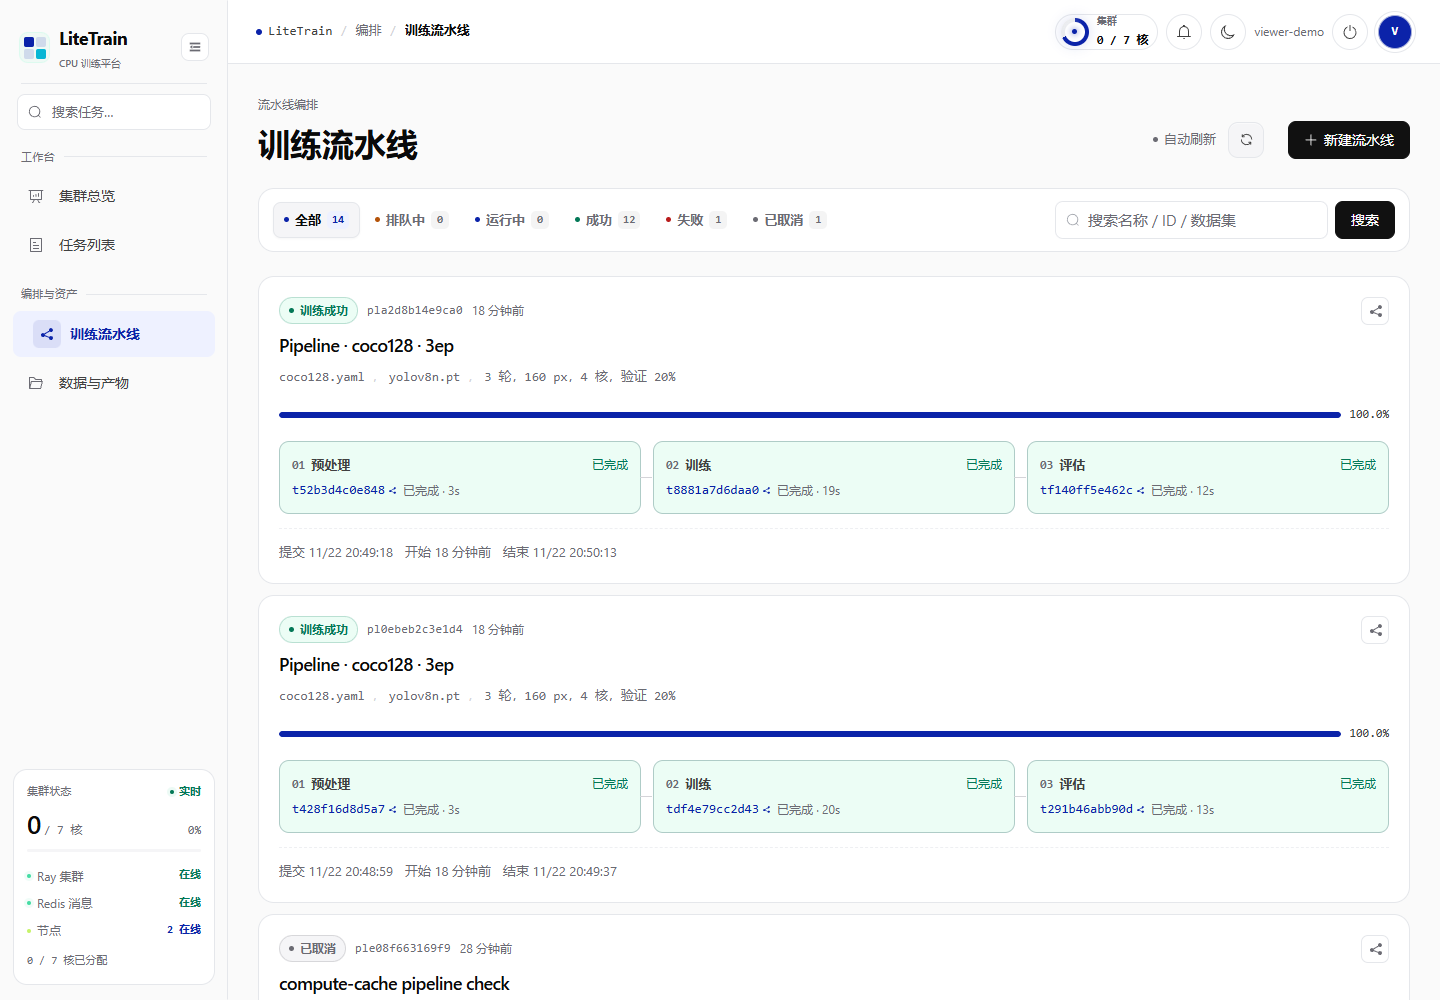
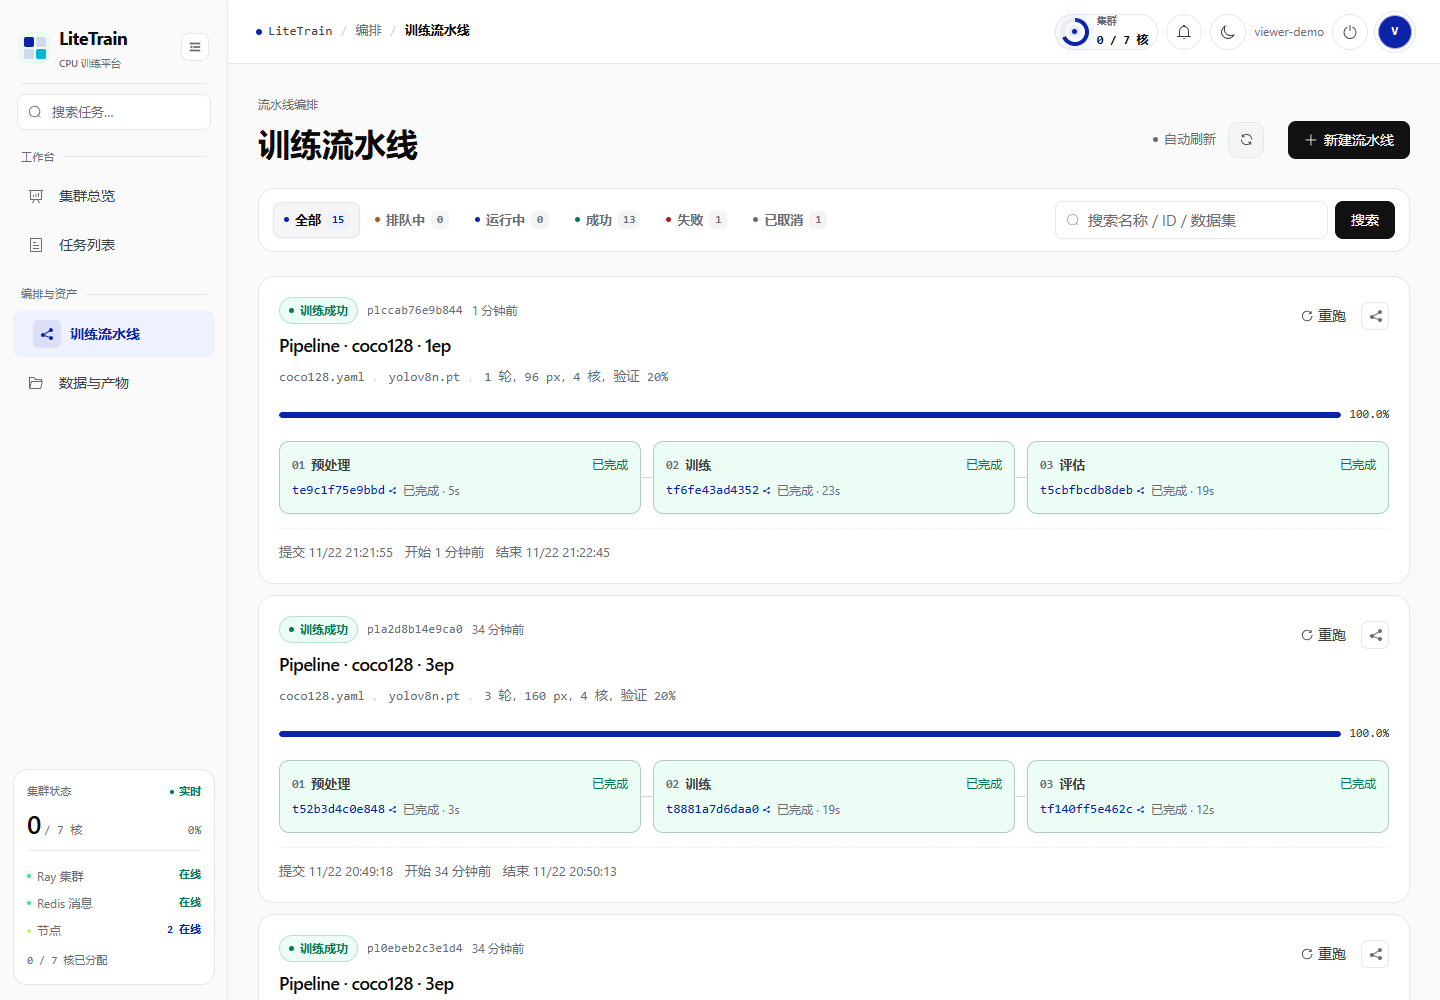
feat(pipelines): add rerun action to pipeline cards

diff --git a/frontend/src/views/PipelinesView.vue b/frontend/src/views/PipelinesView.vue
@@ -6,6 +6,7 @@ import {
   Download,
   Plus,
   Refresh,
+  RefreshRight,
   Search,
   Share,
   Timer,
@@ -47,6 +48,7 @@ const createOpen = ref(false)
 const creating = ref(false)
 const cancellingId = ref<string | null>(null)
 const resumingId = ref<string | null>(null)
+const rerunningId = ref<string | null>(null)
 const detailOpen = ref(false)
 const detailLoading = ref(false)
 const detail = ref<Pipeline | null>(null)
@@ -311,6 +313,29 @@ async function resumePipeline(pipeline: Pipeline) {
   }
 }
 
+async function rerunPipeline(pipeline: Pipeline) {
+  try {
+    await ElMessageBox.confirm(
+      `按「${pipeline.name}」的当前配置新建一条流水线？原流水线及历史记录会保留。`,
+      '重跑流水线',
+      { confirmButtonText: '创建重跑', cancelButtonText: '返回', type: 'info' },
+    )
+  } catch {
+    return
+  }
+  rerunningId.value = pipeline.id
+  try {
+    const created = await api.rerunPipeline(pipeline.id)
+    ElMessage.success(`已创建重跑流水线 ${created.id}`)
+    page.value = 1
+    await load(true)
+  } catch (err) {
+    ElMessage.error(err instanceof Error ? err.message : '重跑流水线失败')
+  } finally {
+    rerunningId.value = null
+  }
+}
+
 async function cancelPipeline(pipeline: Pipeline) {
   try {
     await ElMessageBox.confirm(
@@ -499,9 +524,17 @@ onBeforeUnmount(() => {
             </div>
           </div>
           <div class="pipeline-head-actions">
-            <button class="row-action" type="button" title="查看阶段详情" @click="openDetail(pipeline)">
-              <el-icon><Share /></el-icon>
-            </button>
+            <el-button
+              v-if="isTerminal(pipeline.status)"
+              size="small"
+              text
+              type="primary"
+              :loading="rerunningId === pipeline.id"
+              :icon="RefreshRight"
+              @click="rerunPipeline(pipeline)"
+            >
+              重跑
+            </el-button>
             <el-button
               v-if="canResumePipeline(pipeline)"
               size="small"
@@ -524,6 +557,9 @@ onBeforeUnmount(() => {
             >
               取消
             </el-button>
+            <button class="row-action" type="button" title="查看阶段详情" @click="openDetail(pipeline)">
+              <el-icon><Share /></el-icon>
+            </button>
           </div>
         </div>
 

diff --git a/frontend/src/api/client.ts b/frontend/src/api/client.ts
@@ -299,6 +299,11 @@ export const api = {
     return data
   },
 
+  async rerunPipeline(pipelineId: string): Promise<Pipeline> {
+    const { data } = await http.post<Pipeline>(`/pipelines/${pipelineId}/rerun`)
+    return data
+  },
+
   async cancelPipeline(pipelineId: string): Promise<Pipeline> {
     const { data } = await http.post<Pipeline>(`/pipelines/${pipelineId}/cancel`)
     return data

diff --git a/backend/app/services/pipelines.py b/backend/app/services/pipelines.py
@@ -853,6 +853,39 @@ class PipelineService:
             status_counts=TaskCounts(**status_counts),
         )
 
+    def rerun(self, pipeline_id: str) -> PipelineOut:
+        with self.db.session() as session:
+            pipeline = session.get(Pipeline, pipeline_id)
+            if pipeline is None:
+                raise PipelineNotFound(pipeline_id)
+            config = json.loads(pipeline.config_json or "{}")
+            name = pipeline.name
+        payload = PipelineCreate(
+            name=f"{name} · 重跑"[:100],
+            source_dataset=config.get("source_dataset", "coco128.yaml"),
+            model=config.get("model", "yolov8n.pt"),
+            epochs=int(config.get("epochs", 1)),
+            imgsz=int(config.get("imgsz", 96)),
+            batch_size=int(config.get("batch_size", 4)),
+            workers=int(config.get("workers", 0)),
+            cpu_cores=int(config.get("cpu_cores", 4)),
+            compute_threads=config.get("compute_threads"),
+            cache_mode=config.get("cache_mode", "none"),
+            priority=int(config.get("priority", 50)),
+            max_runtime_seconds=int(config.get("max_runtime_seconds", 600)),
+            max_retries=int(config.get("max_retries", 0)),
+            max_images=int(config.get("max_images", 24)),
+            val_ratio=float(config.get("val_ratio", 0.2)),
+            seed=int(config.get("seed", 42)),
+            dedupe=bool(config.get("dedupe", True)),
+            eval_split="val",
+            eval_conf=float(config.get("eval_conf", 0.001)),
+            eval_iou=float(config.get("eval_iou", 0.6)),
+            eval_max_det=int(config.get("eval_max_det", 300)),
+            notes=config.get("notes"),
+        )
+        return self.create(payload)
+
     def active_task_id(self, pipeline_id: str) -> str | None:
         with self.db.session() as session:
             pipeline = session.get(Pipeline, pipeline_id)

diff --git a/backend/tests/test_p2.py b/backend/tests/test_p2.py
@@ -180,6 +180,32 @@ def test_webhook_enqueue_sign_and_deliver(client, ctx, monkeypatch, payload):
     assert client.get("/api/v1/webhooks").json()["total"] == 0
 
 
+def test_rerun_pipeline_creates_new_run(client):
+    payload = {
+        "name": "rerun source",
+        "source_dataset": "coco128.yaml",
+        "model": "yolov8n.pt",
+        "epochs": 1,
+        "imgsz": 64,
+        "batch_size": 1,
+        "cpu_cores": 2,
+        "compute_threads": 2,
+        "cache_mode": "ram",
+        "max_runtime_seconds": 60,
+        "max_retries": 0,
+    }
+    created = client.post("/api/v1/pipelines", json=payload)
+    assert created.status_code == 201, created.text
+    original = created.json()
+    rerun = client.post(f"/api/v1/pipelines/{original['id']}/rerun")
+    assert rerun.status_code == 201, rerun.text
+    cloned = rerun.json()
+    assert cloned["id"] != original["id"]
+    assert cloned["name"].endswith("· 重跑")
+    assert cloned["config"]["compute_threads"] == 2
+    assert cloned["config"]["cache_mode"] == "ram"
+
+
 def test_topology_rejects_duplicate_node_names(client):
     response = client.post(
         "/api/v1/cluster/nodes/topology",

diff --git a/backend/app/api/pipelines.py b/backend/app/api/pipelines.py
@@ -62,6 +62,23 @@ def resume_pipeline(pipeline_id: str, ctx: AppContext = Depends(get_ctx)) -> Pip
     return pipeline
 
 
+@router.post(
+    "/{pipeline_id}/rerun",
+    response_model=PipelineOut,
+    status_code=status.HTTP_201_CREATED,
+    summary="Create a new pipeline run with the same configuration",
+)
+def rerun_pipeline(pipeline_id: str, ctx: AppContext = Depends(get_ctx)) -> PipelineOut:
+    try:
+        pipeline = ctx.pipelines.rerun(pipeline_id)
+    except PipelineNotFound as exc:
+        raise HTTPException(status_code=404, detail="pipeline not found") from exc
+    except PipelineError as exc:
+        raise HTTPException(status_code=exc.status_code, detail=exc.message) from exc
+    ctx.scheduler.wake()
+    return pipeline
+
+
 @router.post("/{pipeline_id}/cancel", response_model=PipelineOut, summary="Cancel a pipeline")
 def cancel_pipeline(pipeline_id: str, ctx: AppContext = Depends(get_ctx)) -> PipelineOut:
     try:

diff --git a/docs/README.md b/docs/README.md
@@ -2,7 +2,7 @@
 
 本项目采用 **SDD（Spec-Driven Development，规格驱动）+ TDD（Test-Driven Development，测试驱动）** 组织交付。三份核心文档构成 `需求 → 设计 → 测试` 的闭合追溯链。
 
-> 基线说明：以下核心 SDD/TDD 文档最初覆盖 42 项测试；随后新增模型权重导入、流水线预处理/评估、策略上限、流水线恢复、列表筛选和拓扑校验等测试，当前仓库为 **52 项测试**。第 3 节保留最初的 42 项核心测试清单，新增用例以仓库实际测试文件为准。
+> 基线说明：以下核心 SDD/TDD 文档最初覆盖 42 项测试；随后新增模型权重导入、流水线预处理/评估、策略上限、流水线恢复、列表筛选和拓扑校验等测试，当前仓库为 **53 项测试**。第 3 节保留最初的 42 项核心测试清单，新增用例以仓库实际测试文件为准。
 
 | 文档 | 定位 | 核心内容 |
 | --- | --- | --- |

diff --git a/答辩讲稿.md b/答辩讲稿.md
@@ -509,7 +509,7 @@ pending → auditing → passed / warning / blocked / failed
 当前结果：
 
 ```text
-后端测试：52 passed
+后端测试：53 passed
 前端 typecheck：通过
 前端 build：通过
 CI：通过
@@ -691,7 +691,7 @@ worker 无论成功失败都会写 result.json，API 重启后可以恢复任务
 2. **核心**：任务状态机 + 资源账本 + 心跳恢复。
 3. **流水线**：预处理做去重/校验/切分，评估做验证集 mAP/类别 AP/延迟。
 4. **亮点**：重跑同任务保留历史；后台独立端口和权限；策略上限前后端一致。
-5. **证据**：真实 Ray 任务跑通，52 个后端测试，CI 通过。
+5. **证据**：真实 Ray 任务跑通，53 个后端测试，CI 通过。
 6. **边界**：多节点模拟、小样本评估，生产化还需要 PostgreSQL/真实集群/OIDC。
 
 ---

diff --git a/README.md b/README.md
@@ -885,7 +885,7 @@ cd backend
 ..\.venv\Scripts\python -m pytest
 ```
 
-结果：**52 passed**。测试覆盖 P0/P1 + P2：
+结果：**53 passed**。测试覆盖 P0/P1 + P2：
 
 - 创建、分页、状态筛选、ID/名称搜索；
 - 表单选项和命令预览；
